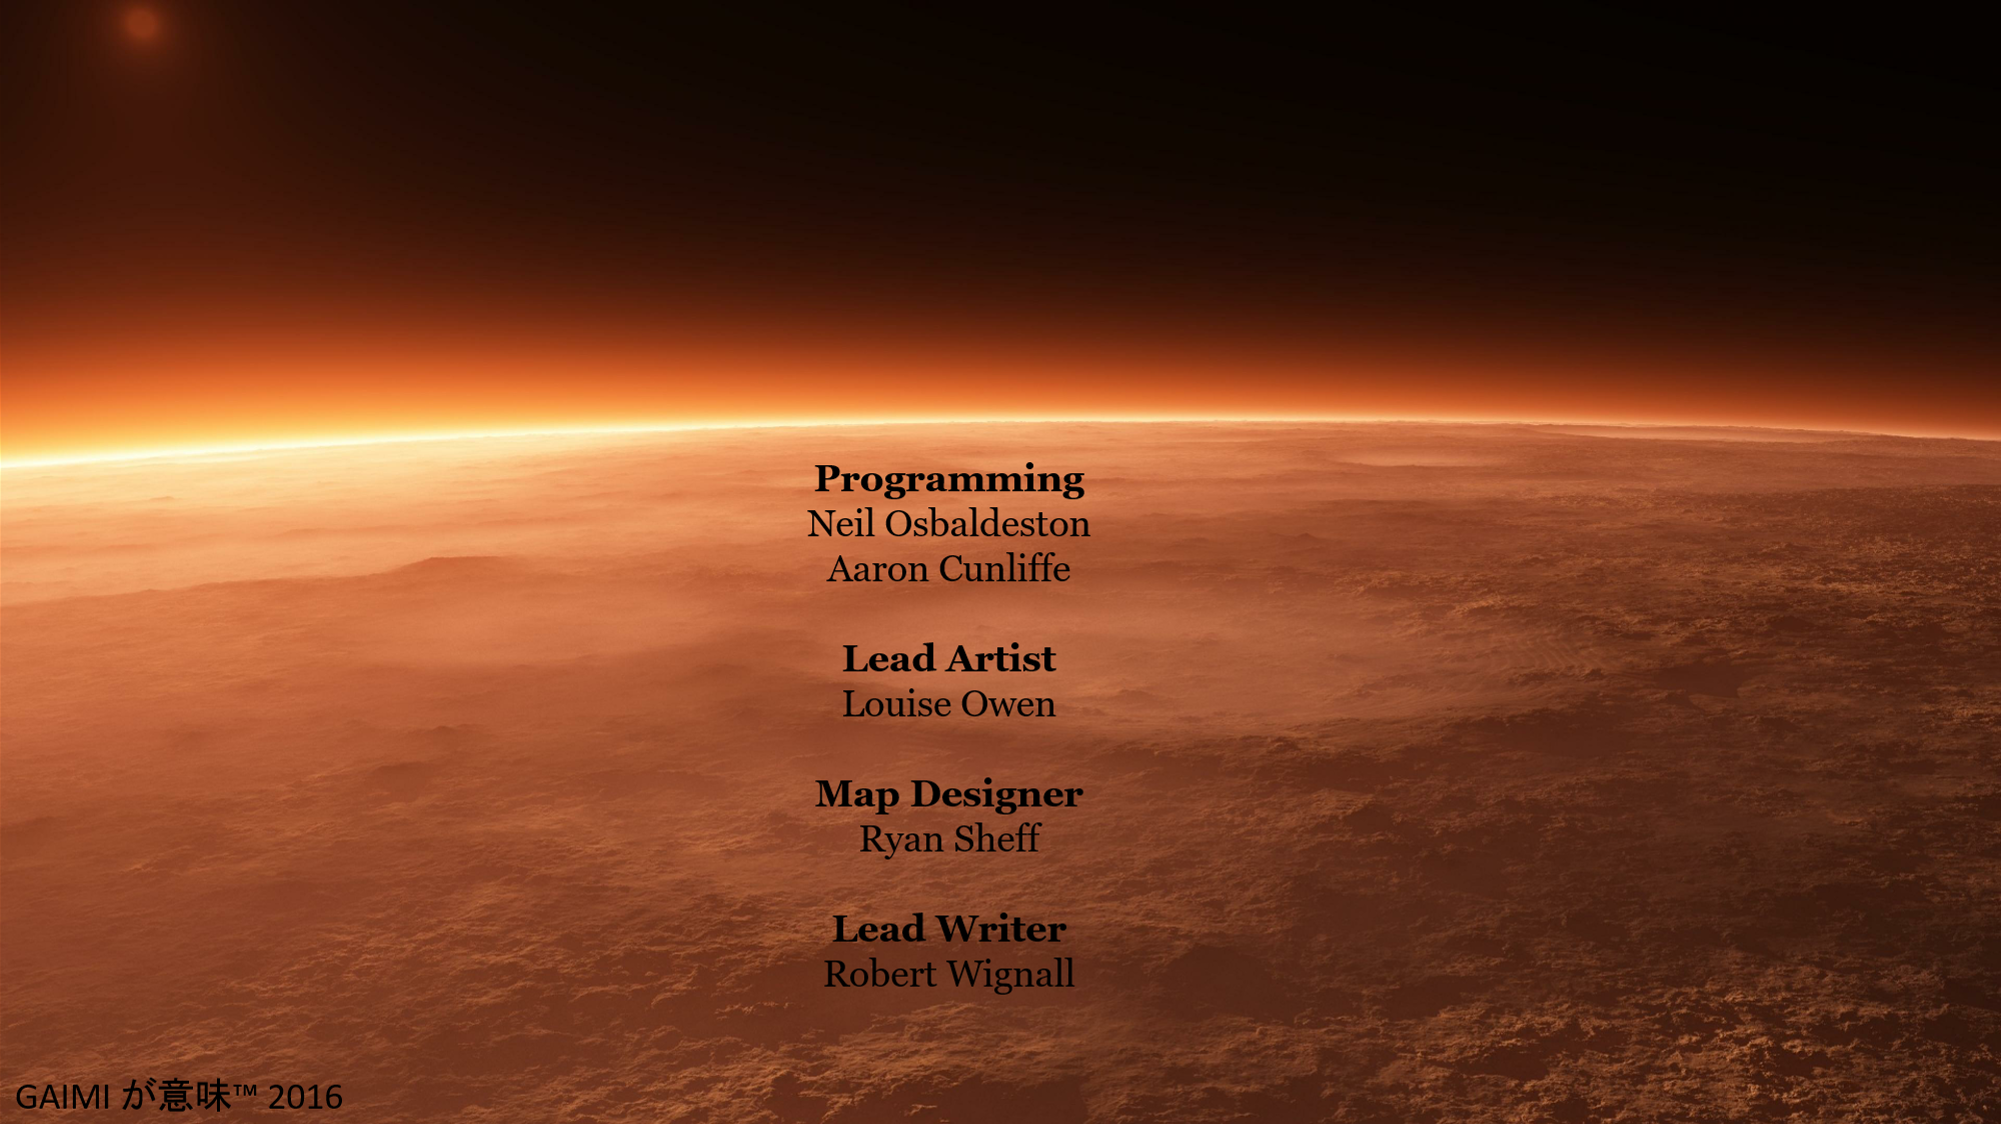
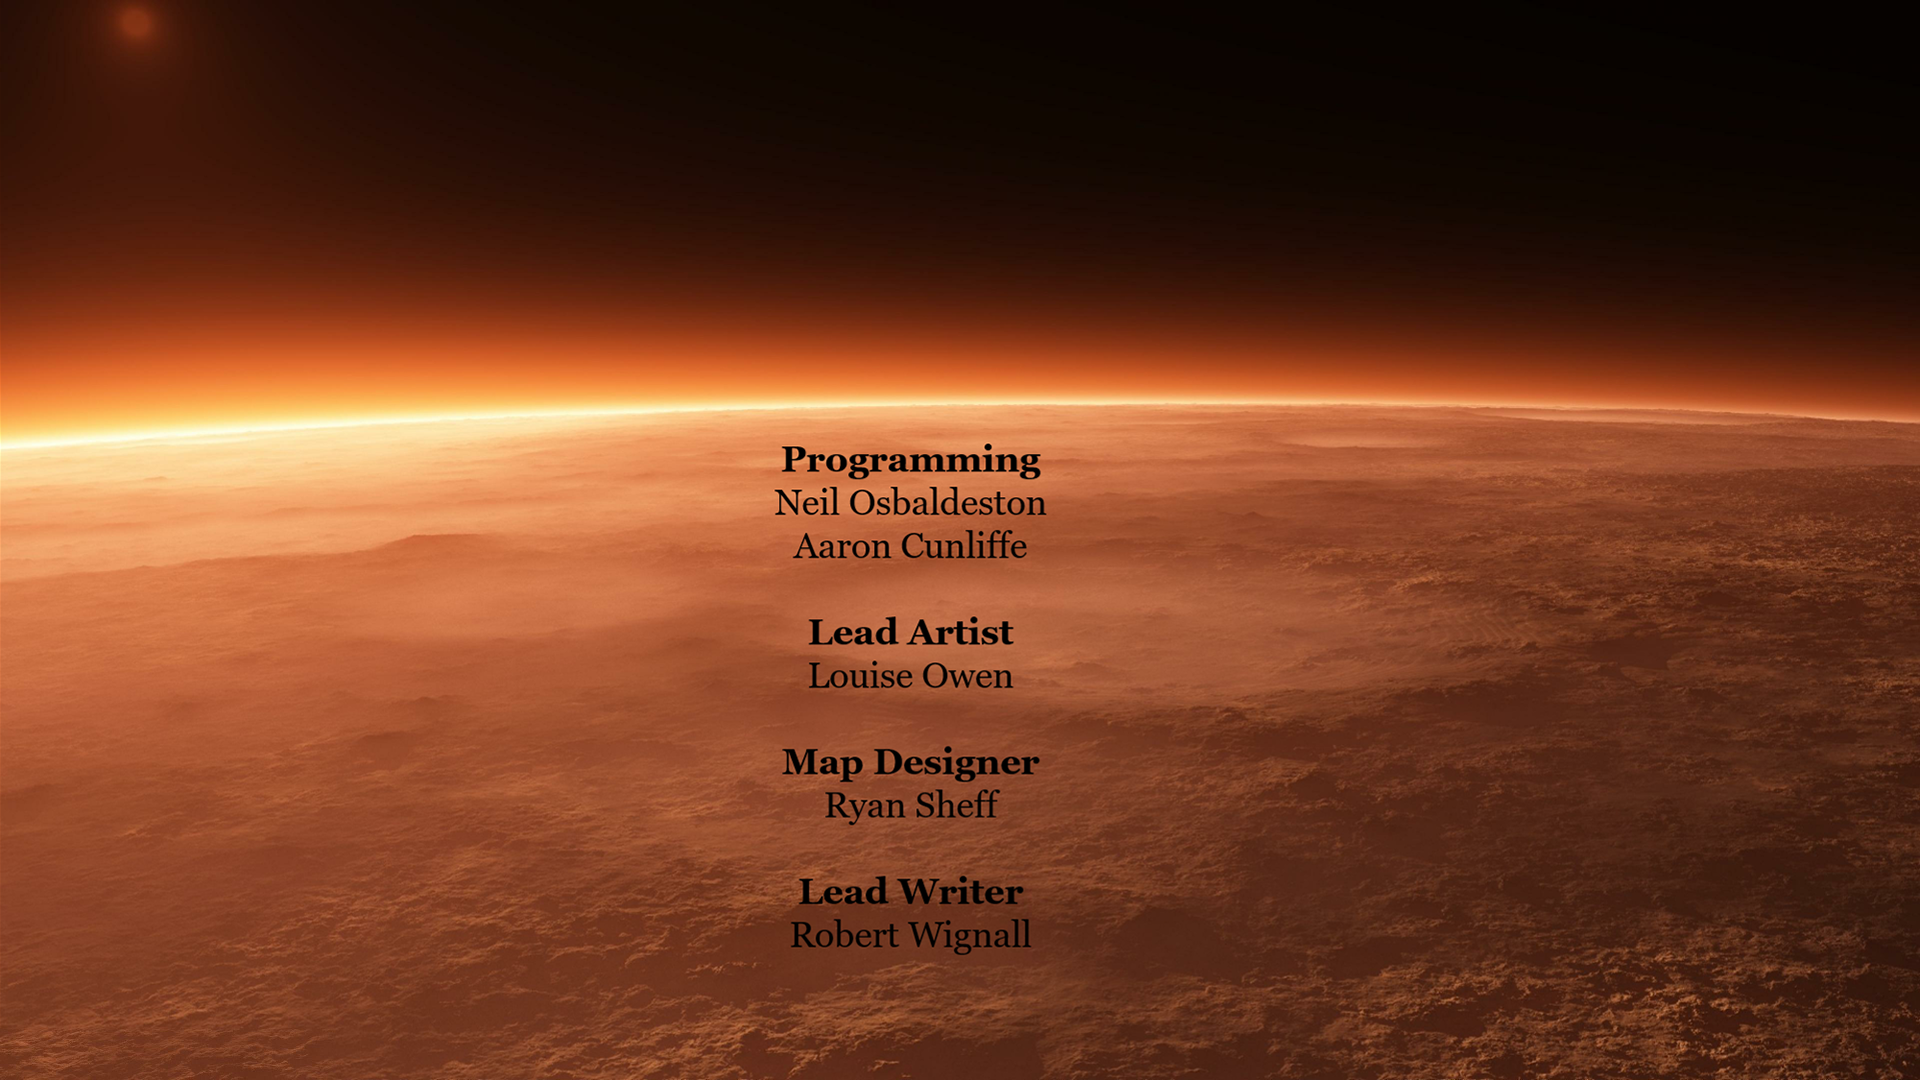
Credits screen
Also some clean up in welcome screen

diff --git a/GAIMI/GAIMI/WelcomeScreen.cpp b/GAIMI/GAIMI/WelcomeScreen.cpp
@@ -16,8 +16,11 @@ WelcomeScreen::WelcomeScreen(SDL_Window* wind, SDL_Renderer* rend) :
 // destructor
 WelcomeScreen::~WelcomeScreen()
 {
-	background->free();
-	title->free();
+    background->free();
+    title->free();
+    exitButton->free();
+    creditsButton->free();
+    credits->free();
 
 	for (auto it = maps.begin(); it != maps.end(); ++it)
 	{
@@ -30,6 +33,8 @@ bool WelcomeScreen::loadMedia()
 	background = new Texture;
 	title = new Texture;
     exitButton = new Texture;
+    creditsButton = new Texture;
+    credits = new Texture;
 
 	int startX = 200;
 	int startY = 450;
@@ -66,6 +71,13 @@ bool WelcomeScreen::loadMedia()
     if (!exitButton->loadFromFile(EXIT_BUTTON_FILE, renderer))
         return false;
 
+    if (!creditsButton->loadFromFile(CREDITS_BUTTON_FILE, renderer))
+        return false;
+
+    if (!credits->loadFromFile(CREDITS_FILE, renderer))
+        return false;
+
+
 	return true;
 }
 
@@ -80,14 +92,29 @@ void WelcomeScreen::run(SDL_Event& e, float& frameTime, GameStates& state, Maps*
 
 	// Render all media
 	SDL_RenderSetViewport(renderer, viewportFull);
-	background->renderMedia(0, 0, renderer);
+
+    if (!showCredits)
+    {
+        background->renderMedia(0, 0, renderer);
+
+    }
+    else
+    {
+        credits->renderMedia(0, 0, renderer);
+    }
+	
 	title->renderMedia(SCREEN_SIZE.w / 2 - (TITLE_WIDTH / 2), 100, renderer);
     exitButton->renderMedia(20, SCREEN_SIZE.h - 80, renderer);
+    creditsButton->renderMedia(CREDITS_BUTTON.x, CREDITS_BUTTON.y, renderer);
+
+    if (!showCredits)
+    {
+        for (auto it = maps.begin(); it != maps.end(); ++it)
+        {
+            (*it)->tex->renderMedia((*it)->x, (*it)->y, renderer);
+        }
+    }
 	
-	for (auto it = maps.begin(); it != maps.end(); ++it)
-	{
-		(*it)->tex->renderMedia((*it)->x, (*it)->y, renderer);
-	}
 
 	// Swap buffers
 	SDL_RenderPresent(renderer);
@@ -112,29 +139,32 @@ void WelcomeScreen::processInputs(SDL_Event& event, float& frameTime, GameStates
 			touchLocation.x = event.button.x;
 			touchLocation.y = event.button.y;
 
-			//Loops through all buttons for maps
-			for (auto it = maps.begin(); it != maps.end(); ++it)
-			{
-				if (touchLocation.x >(*it)->x + COLLISION_OFFSET 
-                    && touchLocation.x < MAP_WIDTH + (*it)->x - COLLISION_OFFSET
-                    && touchLocation.y >(*it)->y + COLLISION_OFFSET 
-                    && touchLocation.y < MAP_HEIGHT + (*it)->y - COLLISION_OFFSET)
-				{
-					for (Maps map : MAPS)
-					{
-						if ((*it)->tex->getFileName() == map.mapFile)
-						{
-							chosenMap = new Maps;
-							chosenMap->first = map.first;
-							chosenMap->mapFile = map.mapFile;
-							chosenMap->mapMap = map.mapMap;
-							chosenMap->missionScript = map.missionScript;
-						}
-					}
-				}
-			}
+            if (!showCredits)
+            {
+                //Loops through all buttons for maps
+                for (auto it = maps.begin(); it != maps.end(); ++it)
+                {
+                    if (touchLocation.x > (*it)->x + COLLISION_OFFSET
+                        && touchLocation.x < MAP_WIDTH + (*it)->x - COLLISION_OFFSET
+                        && touchLocation.y >(*it)->y + COLLISION_OFFSET
+                        && touchLocation.y < MAP_HEIGHT + (*it)->y - COLLISION_OFFSET)
+                    {
+                        for (Maps map : MAPS)
+                        {
+                            if ((*it)->tex->getFileName() == map.mapFile)
+                            {
+                                chosenMap = new Maps;
+                                chosenMap->first = map.first;
+                                chosenMap->mapFile = map.mapFile;
+                                chosenMap->mapMap = map.mapMap;
+                                chosenMap->missionScript = map.missionScript;
+                            }
+                        }
+                    }
+                } // end of iterator
+            }  // if !show credits
 
-            //Exit and clear reset
+            //Exit button
             if (touchLocation.x > viewportFull->x + 20 &&
                 touchLocation.x < viewportFull->x + 20 + EXIT_BUTTON.w &&
                 touchLocation.y > viewportFull->y + SCREEN_SIZE.h - 80 &&
@@ -143,6 +173,16 @@ void WelcomeScreen::processInputs(SDL_Event& event, float& frameTime, GameStates
                 //Exit    
 				state = GameStates::QUIT;
             }
+
+            //credits button
+            if (touchLocation.x > CREDITS_BUTTON.x
+                && touchLocation.x < CREDITS_BUTTON.w + CREDITS_BUTTON.x
+                && touchLocation.y >CREDITS_BUTTON.y
+                && touchLocation.y < CREDITS_BUTTON.h + CREDITS_BUTTON.y)
+            {
+                showCredits = !showCredits;
+            }
+
 
 		} // end mousebuttondown
 	} // end while pol event

diff --git a/GAIMI/GAIMI/Globals.h b/GAIMI/GAIMI/Globals.h
@@ -324,7 +324,8 @@ struct RouteOverlay
 const std::string BACKGROUND_FILE = "Media\\Background.png";
 const std::string STARTBUTTON_FILE = "Media\\start.png";
 const std::string TITLE_FILE = "Media\\title.png";
-const std::string SELECTED_FILE = "Media\\SelectedMap.png";
+const std::string CREDITS_FILE = "Media\\Credits.png";
+const std::string CREDITS_BUTTON_FILE = "Media\\CreditsButton.png";
 
 const int MAP_SPACING = 250;
 const int MAP_WIDTH = 400;
@@ -337,6 +338,13 @@ const int START_HEIGHT = 150;
 
 const int TITLE_WIDTH = 800;
 const int TITLE_HEIGHT = 130;
+
+const SDL_Rect CREDITS_BUTTON{
+    SCREEN_SIZE.w - 200,
+    SCREEN_SIZE.h - 81,
+    200,
+    81 };
+
 
 struct MapTexture
 {

diff --git a/GAIMI/GAIMI/WelcomeScreen.h b/GAIMI/GAIMI/WelcomeScreen.h
@@ -16,14 +16,14 @@ private:
 	SDL_Rect* viewportFull;
 
 	Texture* background;
-	Texture* startButton;
 	Texture* title;
     Texture* exitButton;
+    Texture* creditsButton;
+    Texture* credits;
 
 	std::vector<MapTexture*> maps;
 
-	int selectedX = 0;
-	int selectedY = 0;
+    bool showCredits = false; // If the credits are shown (button pressed)
 
 public:
 	// constructor
